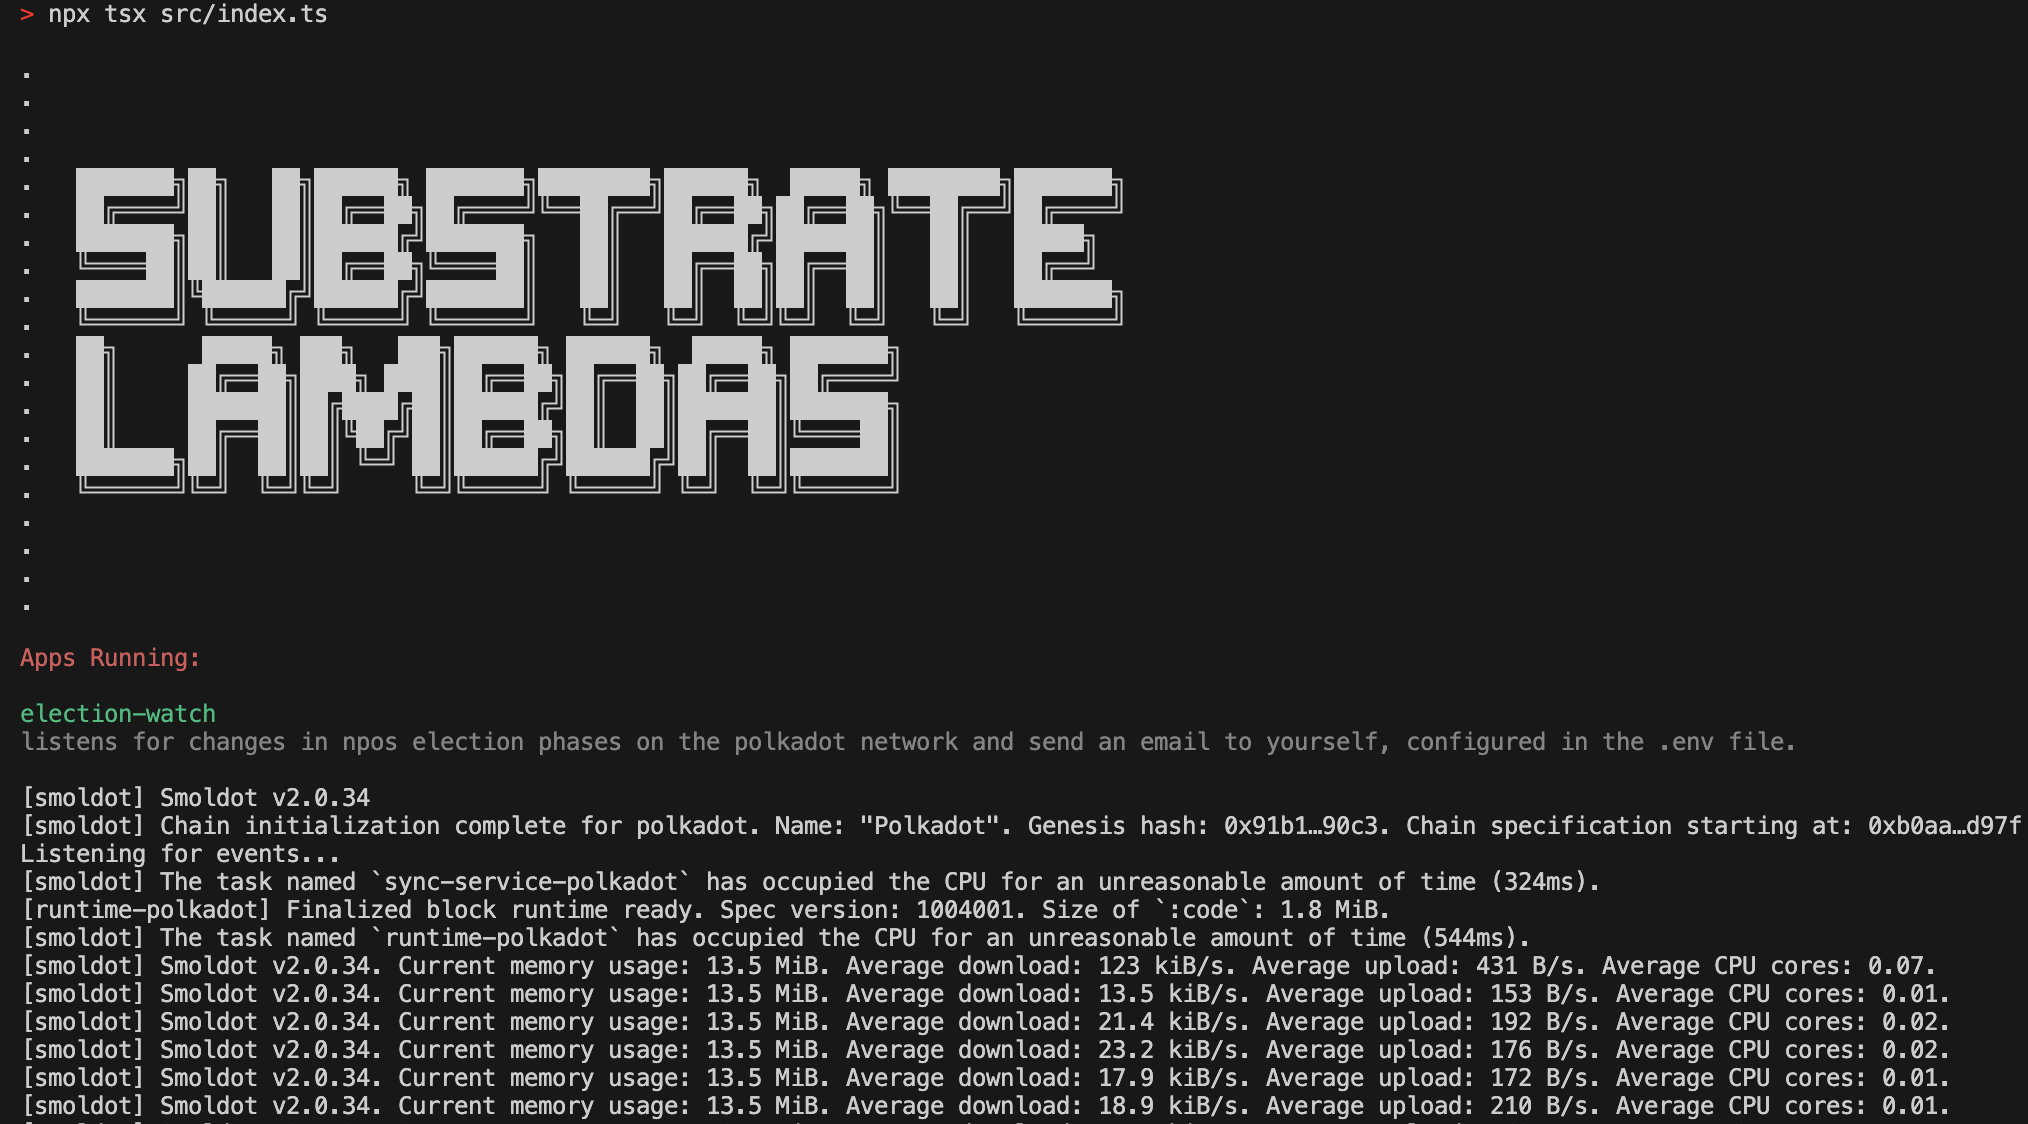
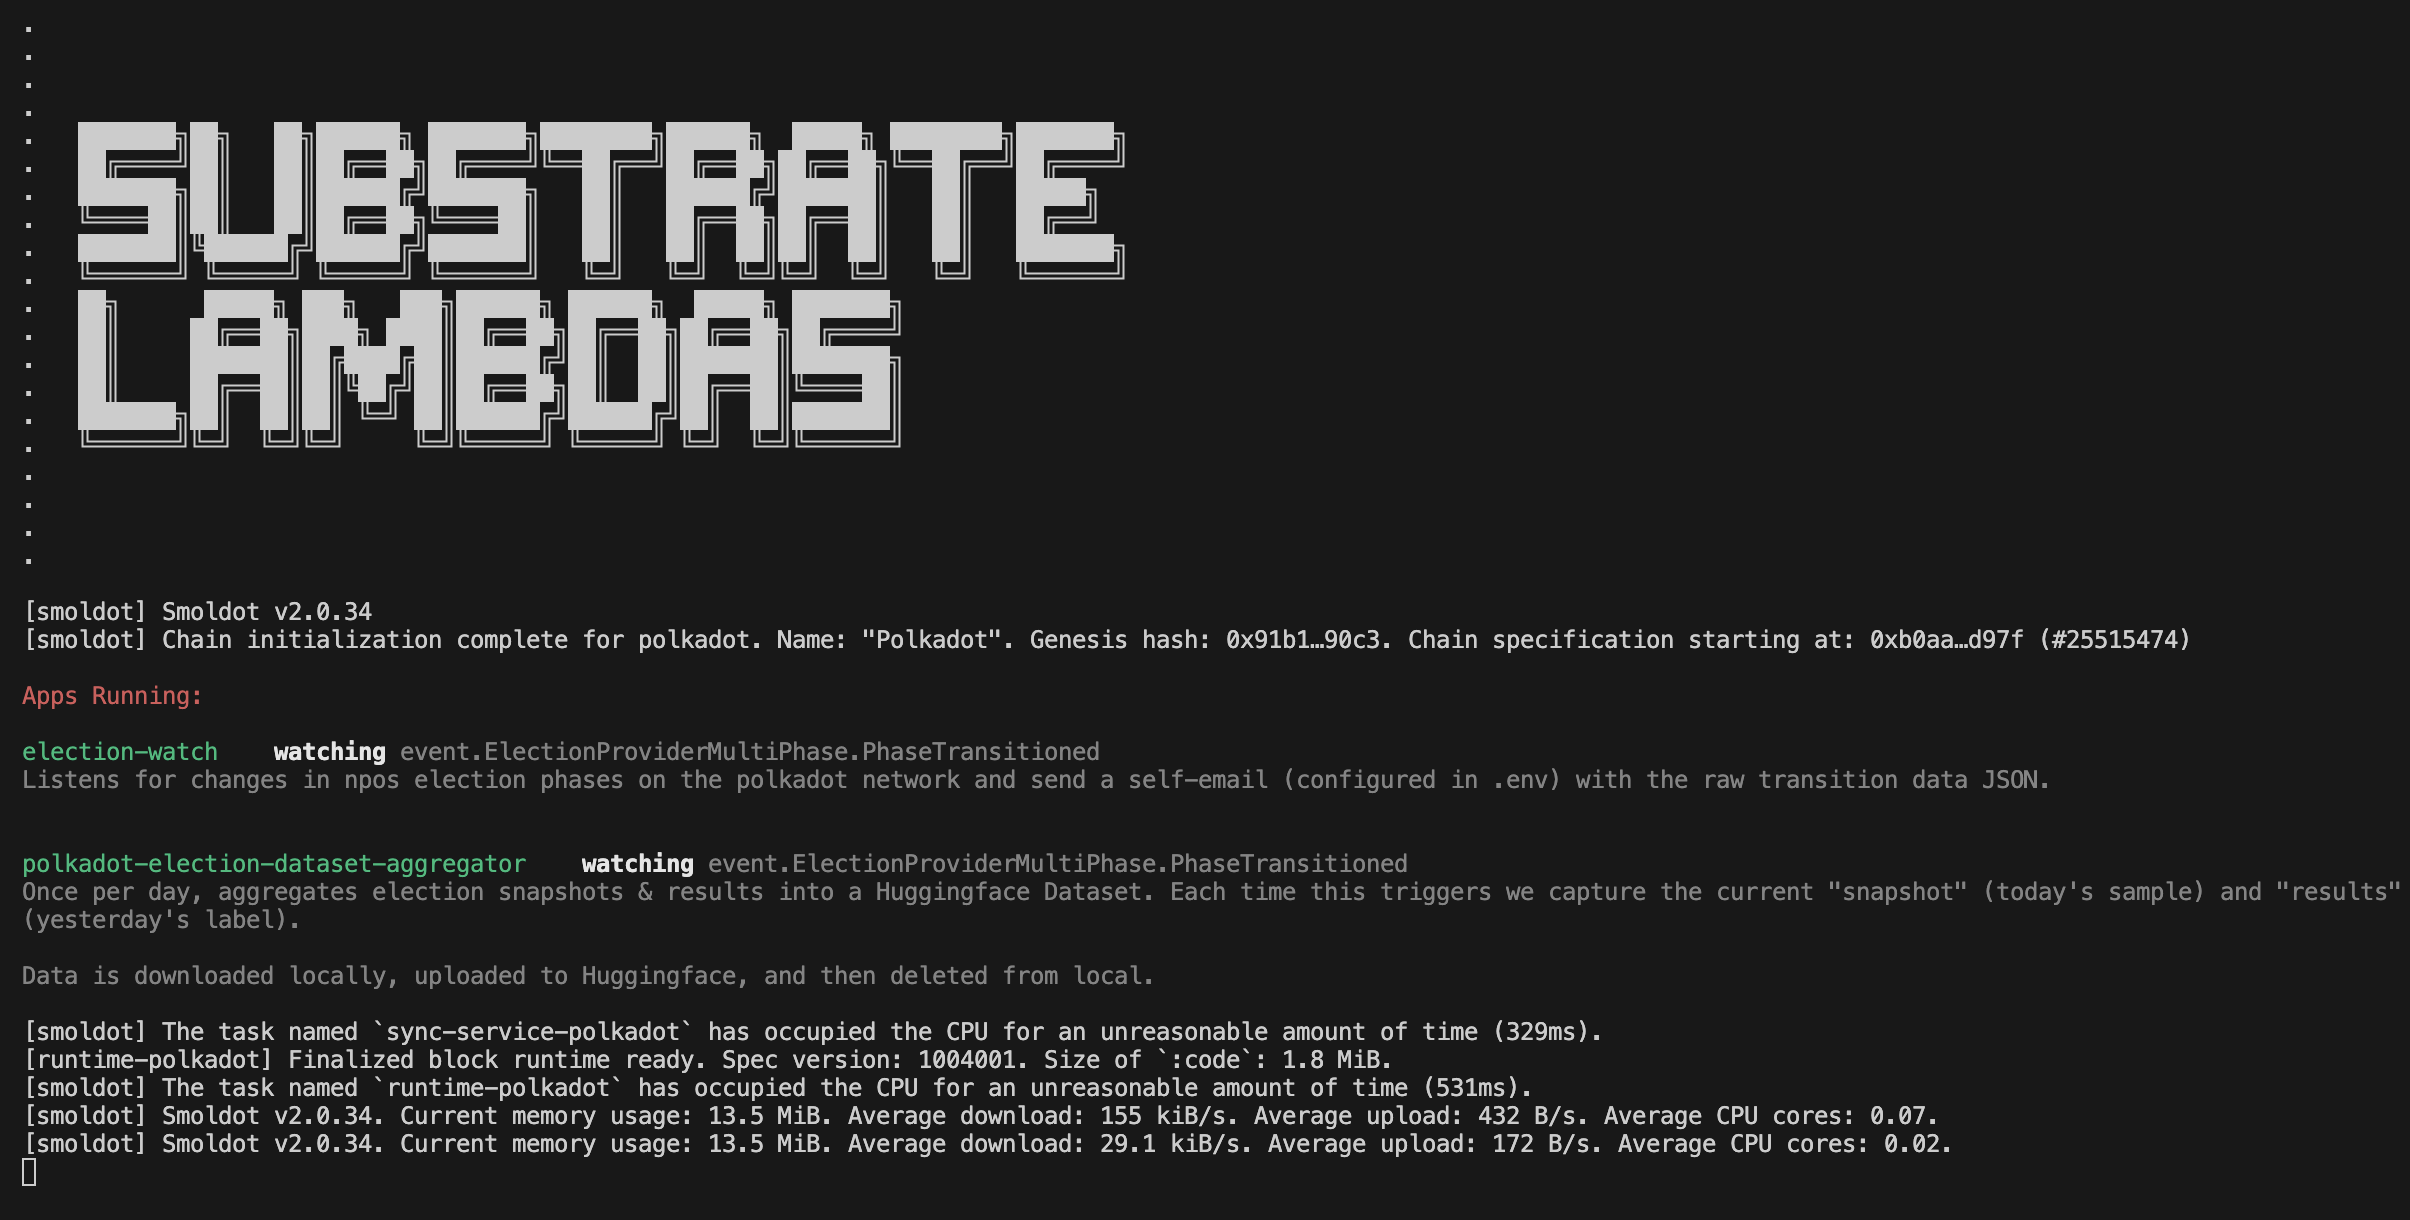
Added context availability for apps, & added new app for aggregating election data into a huggingface dataset. (new app needs vaildating still within context of substrate lambdas)

diff --git a/src/index.ts b/src/index.ts
@@ -1,7 +1,7 @@
 import { dot } from "@polkadot-api/descriptors";
-import { createClient } from "polkadot-api";
+import { ChainDefinition, createClient, TypedApi } from "polkadot-api";
 import { getSmProvider } from "polkadot-api/sm-provider";
-import { chainSpec } from "polkadot-api/chains/polkadot";
+import { chainSpec } from "polkadot-api/chains/polkadot"; // Can select other chains (kusama, westend, etc. here)
 import { start } from "polkadot-api/smoldot";
 import chalk from "chalk";
 
@@ -10,12 +10,24 @@ import { SUBSTRATE_LAMBDAS } from "./titles";
 
 console.log(SUBSTRATE_LAMBDAS);
 
+export class Context<T extends ChainDefinition> {
+    constructor(public api: TypedApi<T>) {}
+}
+
 async function main() {
     // Setup PAPI
     const smoldot = start();
     const chain = await smoldot.addChain({ chainSpec });
     const client = createClient(getSmProvider(chain));
     const papi = client.getTypedApi(dot);
+
+    const context = new Context(papi);
+    function callWithContext(call: Function) {
+        return async (args: any) => {
+            const result = await call(args, context);
+            return result;
+        };
+    }
 
     // Load apps
     const apps = loadApps(papi);
@@ -25,21 +37,19 @@ async function main() {
         console.log(
             "\n" +
                 chalk.green(app.appName) +
-                "\t" +
+                "    " +
                 chalk.white.bold("watching ") +
                 chalk.grey(app.watching.name)
         );
         console.log(chalk.grey(app.description) + "\n");
 
         // Launch app listener
-        app.watching.call(app.trigger).forEach(app.lambda);
+        app.watching
+            .call(callWithContext(app.trigger))
+            .forEach(callWithContext(app.lambda));
     });
 }
 
-main()
-    .then(() => {
-        console.log("Listening for events...");
-    })
-    .catch((error) => {
-        console.error("Error:", error);
-    });
+main().catch((error) => {
+    console.error("Error:", error);
+});

diff --git a/src/apps/polkadot-election-dataset-aggregator/aggData.ts b/src/apps/polkadot-election-dataset-aggregator/aggData.ts
@@ -1,0 +1,62 @@
+import * as fs from "fs";
+import * as path from "path";
+import { execSync } from "child_process";
+import { TypedApi } from "polkadot-api";
+import { dot } from "@polkadot-api/descriptors";
+
+function saveJSON(data: any, path: string) {
+    fs.writeFileSync(
+        path,
+        typeof data === "object" && data !== null
+            ? JSON.stringify(
+                  data,
+                  (key, value) =>
+                      typeof value === "bigint" ? value.toString() : value,
+                  2
+              )
+            : String(data)
+    );
+}
+
+function saveEraData(era: number, fn: string, data: any) {
+    const outDir = `./out/era_${era}/`;
+    if (!fs.existsSync(outDir)) {
+        fs.mkdirSync(outDir, { recursive: true });
+    }
+    saveJSON(data, path.join(outDir, `${fn}.json`));
+}
+
+function cleanUp() {
+    const outDir = `./out/`;
+    if (fs.existsSync(outDir)) {
+        fs.rmSync(outDir, { recursive: true, force: true });
+    }
+}
+
+export async function aggData(api: TypedApi<typeof dot>) {
+    console.log("[1] capturing data...");
+    const currentEra =
+        (await api.query.Staking.ActiveEra.getValue())?.index ?? 0;
+
+    const sample =
+        await api.query.ElectionProviderMultiPhase.Snapshot.getValue();
+    const label = await api.query.Staking.ErasStakersPaged.getEntries(
+        currentEra
+    );
+
+    console.log("[2] saving data...");
+    saveEraData(currentEra, "sample", sample);
+    saveEraData(currentEra - 1, "label", label);
+
+    console.log("[3] uploading data...");
+    const command = `python ${__dirname}/pushData.py ./out`;
+    try {
+        const output = execSync(command, { stdio: "inherit" });
+        console.log("Command executed successfully:", command);
+    } catch (error) {
+        console.error("Error executing command:", error);
+    }
+
+    console.log("[4] cleaning up local data...");
+    cleanUp();
+}

diff --git a/src/apps/election-watch/index.ts b/src/apps/election-watch/index.ts
@@ -1,17 +1,20 @@
 import { dot } from "@polkadot-api/descriptors";
 import { sendEmail } from "./email";
 
+import { Context } from "../../index";
+
 export const watching = "event.ElectionProviderMultiPhase.PhaseTransitioned";
 
 export const description = `
-Listens for changes in npos election phases on the polkadot network and send an email to yourself, configured in the .env file.
+Listens for changes in npos election phases on the polkadot network and send a self-email (configured in .env) with the raw transition data JSON.
 `;
 
 /**
  * Trigger for all phase transition events
  */
 export function trigger(
-    _data: typeof dot.descriptors.pallets.__event.ElectionProviderMultiPhase.PhaseTransitioned._type
+    _data: typeof dot.descriptors.pallets.__event.ElectionProviderMultiPhase.PhaseTransitioned._type,
+    _context: Context<typeof dot>
 ): boolean {
     return true;
 }
@@ -20,7 +23,8 @@ export function trigger(
  * Send phase transition data to email
  */
 export function lambda(
-    content: typeof dot.descriptors.pallets.__event.ElectionProviderMultiPhase.PhaseTransitioned._type
+    content: typeof dot.descriptors.pallets.__event.ElectionProviderMultiPhase.PhaseTransitioned._type,
+    _context: Context<typeof dot>
 ) {
     sendEmail("Election Phase Transitioned", content);
 }

diff --git a/src/apps/polkadot-election-dataset-aggregator/index.ts b/src/apps/polkadot-election-dataset-aggregator/index.ts
@@ -1,0 +1,32 @@
+import { dot } from "@polkadot-api/descriptors";
+
+import { Context } from "../../index";
+import { aggData } from "./aggData";
+
+export const watching = "event.ElectionProviderMultiPhase.PhaseTransitioned";
+
+export const description = `
+Once per day, aggregates election snapshots & results into a Huggingface Dataset. Each time this triggers we capture the current "snapshot" (today's sample) and "results" (yesterday's label).
+
+Data is downloaded locally, uploaded to Huggingface, and then deleted from local.
+`;
+
+/**
+ * Trigger when `Signed` phase begins. This should trigger once per era.
+ */
+export function trigger(
+    transition: typeof dot.descriptors.pallets.__event.ElectionProviderMultiPhase.PhaseTransitioned._type,
+    _context: Context<typeof dot>
+): boolean {
+    return transition.to.type == "Signed";
+}
+
+/**
+ * Aggregate snapshot data
+ */
+export function lambda(
+    _content: typeof dot.descriptors.pallets.__event.ElectionProviderMultiPhase.PhaseTransitioned._type,
+    context: Context<typeof dot>
+) {
+    aggData(context.api);
+}

diff --git a/src/apps/polkadot-election-dataset-aggregator/pushData.py b/src/apps/polkadot-election-dataset-aggregator/pushData.py
@@ -1,0 +1,29 @@
+from huggingface_hub import HfApi, login
+import os
+import sys
+
+def expect_env_var(var_name):
+    var = os.getenv(var_name)
+    if not var:
+        raise ValueError(f"expected environment variable {var_name} but found None")
+    return var
+
+# Establish HF client
+token = expect_env_var("HF_TOKEN")
+repo_name = expect_env_var("REPO_NAME")
+login(token)
+api = HfApi()
+
+if __name__ == "__main__":
+    # Validate args
+    if len(sys.argv) != 2:
+        print("Usage: python pushData.py <data-dir>")
+        sys.exit(1)
+
+    # Push data to HF dataset
+    api.upload_folder(
+        folder_path=sys.argv[1],
+        path_in_repo=f"data",
+        repo_id=repo_name,
+        repo_type="dataset"
+    )

diff --git a/README.md b/README.md
@@ -7,7 +7,7 @@ Doing ***\<thing\>*** when ***\<trigger\>*** occurs is quite useful. Listening f
 
 ### Repository Goals
 
-**(1)** Provide developers with a platform to rapidly develop & easily deploy *lambda* style applications which follow a standardized design pattern.
+**(1)** Provide developers with a platform to rapidly develop & easily deploy *lambda* style applications which follow a standardized design pattern & set of tools. One important tool will be the ability to launch remote workers across various cloud providers.
 
 **(2)** Provide users with platform to easily plug-n-play various *"apps"* or *"plugins"* built by developers
 
